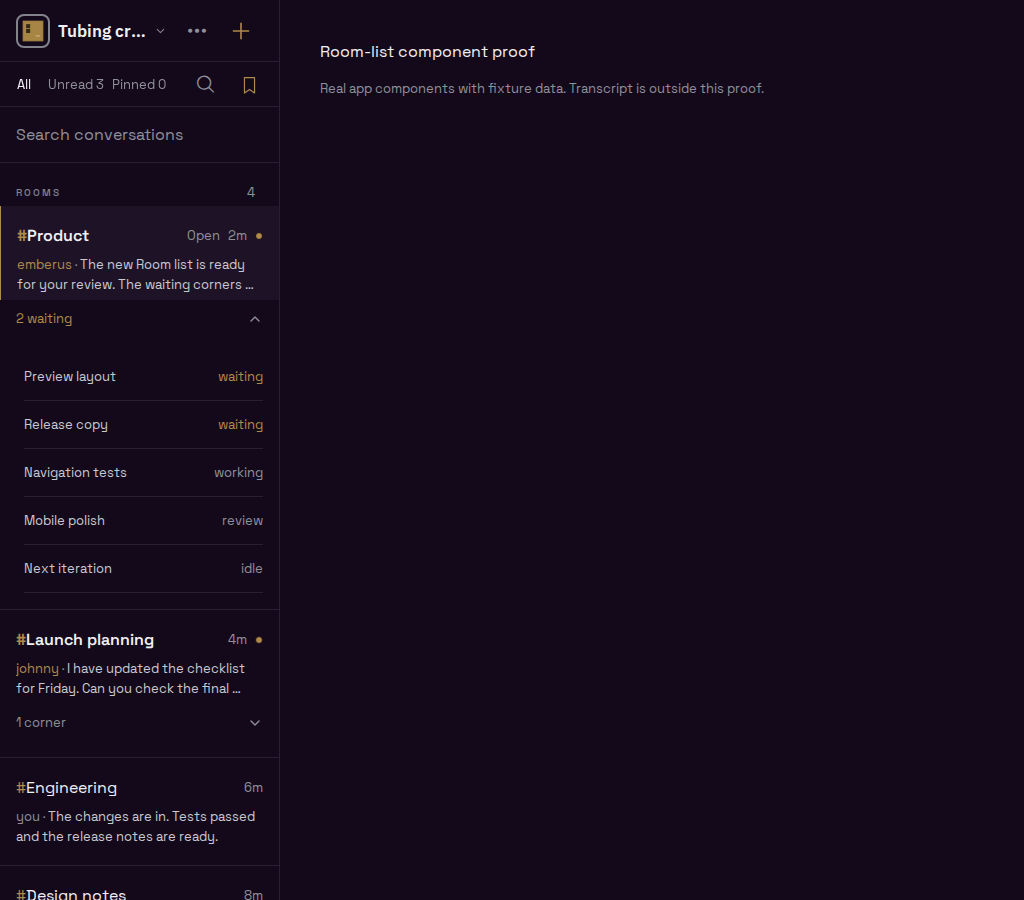
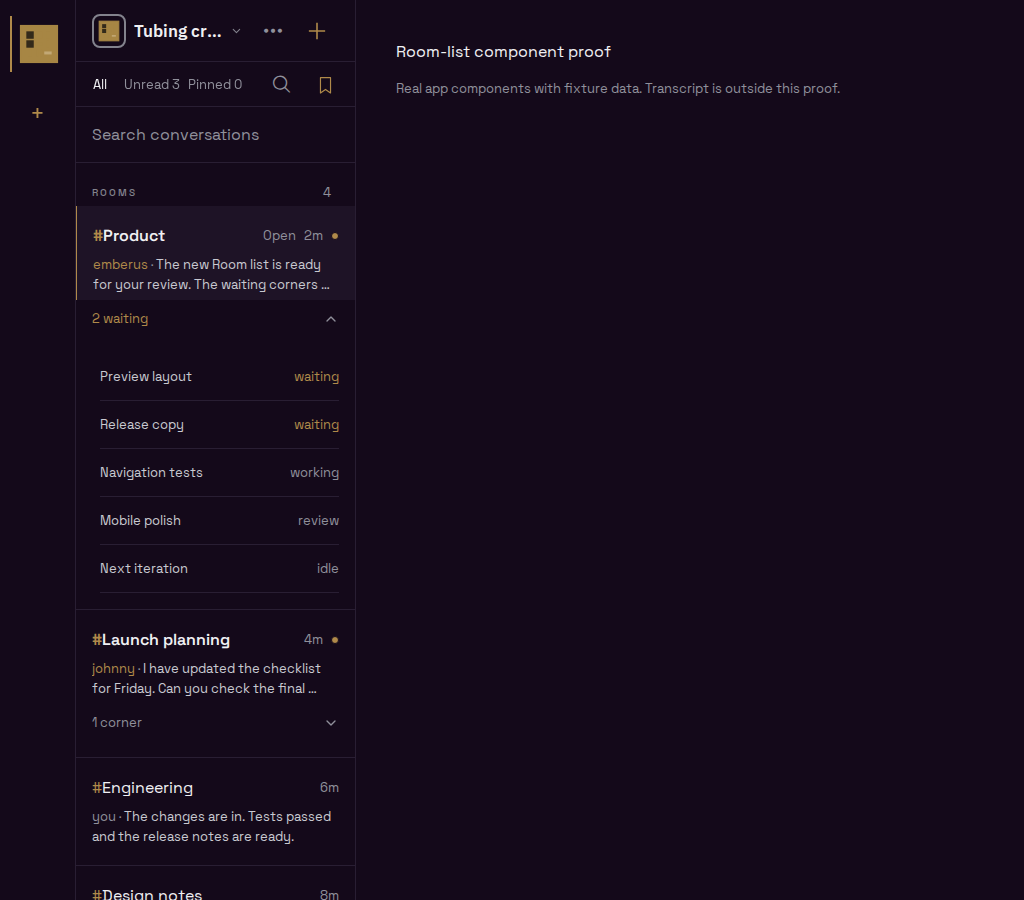
Keep Workspace rail visible on narrow desktop web

diff --git a/apps/mobile/sources/components/SidebarView.navigation.test.tsx b/apps/mobile/sources/components/SidebarView.navigation.test.tsx
@@ -285,9 +285,9 @@ describe('desktop Workspace navigation', () => {
     expect(tree.root.findByType('DesktopWorkspaceRail').props.open).toBe(true);
   });
 
-  it('shows the permanent Workspace strip on wide desktop without removing its actions', async () => {
-    viewport.width = 1440;
-    await act(async () => tree.update(<SidebarView key="wide" />));
+  it('shows the permanent Workspace strip on narrow desktop without removing its actions', async () => {
+    viewport.width = 1024;
+    await act(async () => tree.update(<SidebarView key="narrow-desktop" />));
     await settle();
     expect(control('desktop-workspace-strip')).toBeTruthy();
     expect(tree.root.findAllByProps({ testID: 'profile-settings-navigation' })).toHaveLength(0);
@@ -348,19 +348,13 @@ describe('desktop Workspace navigation', () => {
   });
 
   it("keeps profile settings reachable from the persistent desktop navigation as the viewer's own face", () => {
-    const profileSettings = control('profile-settings-navigation');
+    const profileSettings = control('desktop-strip-account');
 
     expect(profileSettings.props.accessibilityLabel).toBe('Ada Lovelace — Settings');
     expect(profileSettings.findByType('IdentityMark').props).toMatchObject({
       seed: 'viewer',
       kind: 'human',
     });
-    expect(
-      profileSettings
-        .findAllByType('Text')
-        .map((node: { props: { children?: unknown } }) => node.props.children),
-    ).toEqual(['Ada Lovelace']);
-
     act(() => profileSettings.props.onPress());
 
     expect(routerPush).toHaveBeenCalledWith('/beeline/settings');
@@ -437,7 +431,7 @@ describe('desktop Workspace navigation', () => {
     });
     await settle();
 
-    expect(control('profile-settings-navigation').props.accessibilityState).toEqual({
+    expect(control('desktop-strip-account').props.accessibilityState).toEqual({
       selected: false,
     });
     openMenu();
@@ -495,7 +489,7 @@ describe('desktop Workspace navigation', () => {
     expect(control('desktop-new-direct-message')).toBeDefined();
     expect(control('desktop-bookmarks')).toBeDefined();
     expect(control('workspace-menu-members')).toBeDefined();
-    expect(control('profile-settings-navigation')).toBeDefined();
+    expect(control('desktop-strip-account')).toBeDefined();
   });
 
   it('does not offer New Room to an agent even with an elevated Workspace role', async () => {
@@ -518,7 +512,7 @@ describe('desktop Workspace navigation', () => {
     await settle();
 
     expect(control('desktop-bookmarks').props.accessibilityState).toEqual({ selected: true });
-    expect(control('profile-settings-navigation').props.accessibilityState).toEqual({
+    expect(control('desktop-strip-account').props.accessibilityState).toEqual({
       selected: false,
     });
   });

diff --git a/apps/mobile/sources/components/SidebarView.tsx b/apps/mobile/sources/components/SidebarView.tsx
@@ -43,7 +43,6 @@ import {
   Text,
   TextInput,
   View,
-  useWindowDimensions,
 } from 'react-native';
 import { useSafeAreaInsets } from 'react-native-safe-area-context';
 import { StyleSheet } from 'react-native-unistyles';
@@ -167,8 +166,7 @@ export const SidebarView = React.memo(function SidebarView() {
   const safeArea = useSafeAreaInsets();
   const headerHeight = useHeaderHeight();
   const isDesktop = useIsDesktop();
-  const { width: windowWidth } = useWindowDimensions();
-  const showWorkspaceStrip = isDesktop && windowWidth >= 1360;
+  const showWorkspaceStrip = isDesktop;
   const router = useRouter();
   const pathname = usePathname();
   const routeParams = useGlobalSearchParams<{
@@ -418,6 +416,7 @@ export const SidebarView = React.memo(function SidebarView() {
           viewerPubkey={identityPubkey ?? undefined}
           viewerFace={viewerIdentity?.face}
           viewerAvatarUrl={viewerIdentity?.avatar}
+          accountSelected={profileSettingsSelected}
           onSelect={selectWorkspace}
           onAdd={() => router.push('/beeline/community' as Href)}
           onAccount={() => router.push('/beeline/settings' as Href)}

diff --git a/apps/mobile/sources/components/SidebarNavigator.test.tsx b/apps/mobile/sources/components/SidebarNavigator.test.tsx
@@ -144,13 +144,19 @@ describe('SidebarNavigator web width class', () => {
     expect(options.drawerStyle.width).toBe(356);
     expect(resizer(tree).props.testID).toBe('desktop-navigation-resizer');
   });
+
+  it('reserves the Workspace rail alongside the Room list at narrow desktop widths', async () => {
+    const tree = await renderNavigator(1024);
+    expect(drawerWidth(tree)).toBe(356);
+    expect(1024 - drawerWidth(tree)).toBeGreaterThanOrEqual(440);
+  });
 });
 
 describe('SidebarNavigator resize handle', () => {
   it('drags the nav pane wider on an ordinary desktop window', async () => {
     const tree = await renderNavigator(1280);
     const before = drawerWidth(tree);
-    expect(before).toBe(280);
+    expect(before).toBe(356);
 
     const handlers = resizer(tree).props;
     act(() => {
@@ -206,7 +212,7 @@ describe('SidebarNavigator resize handle', () => {
       handlers.onPanResponderRelease(null, { dx: 1000 });
     });
 
-    expect(drawerWidth(tree)).toBe(420);
+    expect(drawerWidth(tree)).toBe(420 + 76);
     expect(saveDesktopPaneWidthMock).toHaveBeenCalledWith('navigation', 420);
   });
 });

diff --git a/apps/mobile/sources/components/buzz/DesktopWorkspaceStrip.tsx b/apps/mobile/sources/components/buzz/DesktopWorkspaceStrip.tsx
@@ -12,6 +12,7 @@ export function DesktopWorkspaceStrip({
   viewerPubkey,
   viewerFace,
   viewerAvatarUrl,
+  accountSelected,
   onSelect,
   onAdd,
   onAccount,
@@ -22,6 +23,7 @@ export function DesktopWorkspaceStrip({
   viewerPubkey?: string;
   viewerFace?: string;
   viewerAvatarUrl?: string;
+  accountSelected?: boolean;
   onSelect: (id: string) => void;
   onAdd: () => void;
   onAccount: () => void;
@@ -61,8 +63,9 @@ export function DesktopWorkspaceStrip({
       <Pressable
         accessibilityLabel={viewerName ? `${viewerName} — Settings` : 'Settings'}
         accessibilityRole="button"
+        accessibilityState={{ selected: Boolean(accountSelected) }}
         onPress={onAccount}
-        style={styles.tile}
+        style={[styles.tile, accountSelected && styles.active]}
         testID="desktop-strip-account"
       >
         <IdentityMark

diff --git a/apps/mobile/sources/components/SidebarNavigator.tsx b/apps/mobile/sources/components/SidebarNavigator.tsx
@@ -12,6 +12,7 @@ import { useUnistyles } from 'react-native-unistyles';
 import { t } from '@/text';
 import { isTauri } from '@/utils/isTauri';
 import { APP_UI_SIZE_SCALE } from '@/ui-size';
+import { LAYOUT_BREAKPOINTS } from '@/utils/layoutClass';
 import {
   canRouteForward,
   canUseRouteBack,
@@ -56,7 +57,9 @@ export const SidebarNavigator = React.memo(() => {
   const showSidebar = showSessionChrome && !zenMode;
   const { width: windowWidth } = useWindowDimensions();
   const workspaceStripWidth =
-    isDesktopLayout && windowWidth >= 1360 ? DESKTOP_WORKSPACE_STRIP_WIDTH : 0;
+    isDesktopLayout && desktopPlatform && windowWidth >= LAYOUT_BREAKPOINTS.regular
+      ? DESKTOP_WORKSPACE_STRIP_WIDTH
+      : 0;
 
   React.useEffect(() => {
     if (!inDesktopShell) return;

diff --git a/apps/mobile/scripts/room-list-proof.tsx b/apps/mobile/scripts/room-list-proof.tsx
@@ -104,7 +104,7 @@ function Proof() {
   };
   return (
     <View style={{ minHeight: '100vh' as any, backgroundColor: t.bgBase, flexDirection: 'row' }}>
-      {desktop && innerWidth >= 1360 && (
+      {desktop && (
         <DesktopWorkspaceStrip
           workspaces={[{ id: 'tubing', name: 'Tubing crew' }] as any}
           activeWorkspaceId="tubing"

diff --git a/apps/mobile/evidence/room-list-previews/README.md b/apps/mobile/evidence/room-list-previews/README.md
@@ -6,8 +6,8 @@ desktop HTML mocks in `../room-list-reference/`; they render the current
 shared Room-list components with fixture conversations, using
 `node apps/mobile/scripts/render-room-list-proof.mjs` from the repository root.
 They cover Obsidian and Bone at 390px and 1440px, plus a 280px desktop sidebar.
-The wide desktop proofs include the persistent 76px Workspace rail and the
-380px default Room list; the narrow desktop proof retains the switcher layout.
+The desktop proofs include the persistent 76px Workspace rail. The 1440px
+proof uses the 380px default Room list; the 1024px proof uses a 280px Room list.
 The desktop proof uses an illustrative transcript area; it verifies the list
 layout rather than navigation or live data behavior.
 

diff --git a/DESIGN.md b/DESIGN.md
@@ -392,8 +392,8 @@ explains the long-press action and links back to All.
 Desktop section headings use 20px above and `space.xs` below; the following
 row starts after 18px, without a second large section gap. Phone corner
 summaries retain a `space.md` bottom margin before the next conversation.
-Wide desktop windows keep a 76px Workspace rail beside the 380px default Room
-sidebar; narrower windows retain the existing Workspace switcher overlay.
+Desktop web windows at the regular layout width keep a 76px Workspace rail beside
+the Room sidebar; narrower windows use the single-column Room list.
 
 Corner summaries read “2 waiting” in brass when any corner waits; otherwise
 they read “5 corners” in quiet ink.

diff --git a/apps/mobile/evidence/room-list-live-web/README.md b/apps/mobile/evidence/room-list-live-web/README.md
@@ -29,6 +29,8 @@ page errors, console errors, or horizontal document overflow at either width.
 - `desktop-rail-dot.png` and `phone-rail-dot.png` show the brass unread mark,
   waiting-only corner summary, and (on wide desktop) the 76px Workspace rail,
   380px Room sidebar, and Rooms count beside its create action.
+- `desktop-narrow-rail.png` shows the 76px rail, Room list, and live Room
+  transcript together at 1024px, without horizontal overflow.
 - `mobile-list.png` and `desktop-list.png` show the list before pinning; a long
   press immediately toggles the Room pin without a menu.
 - `phone-pinned.png` and `desktop-pinned.png` show the saved pin after reload,
